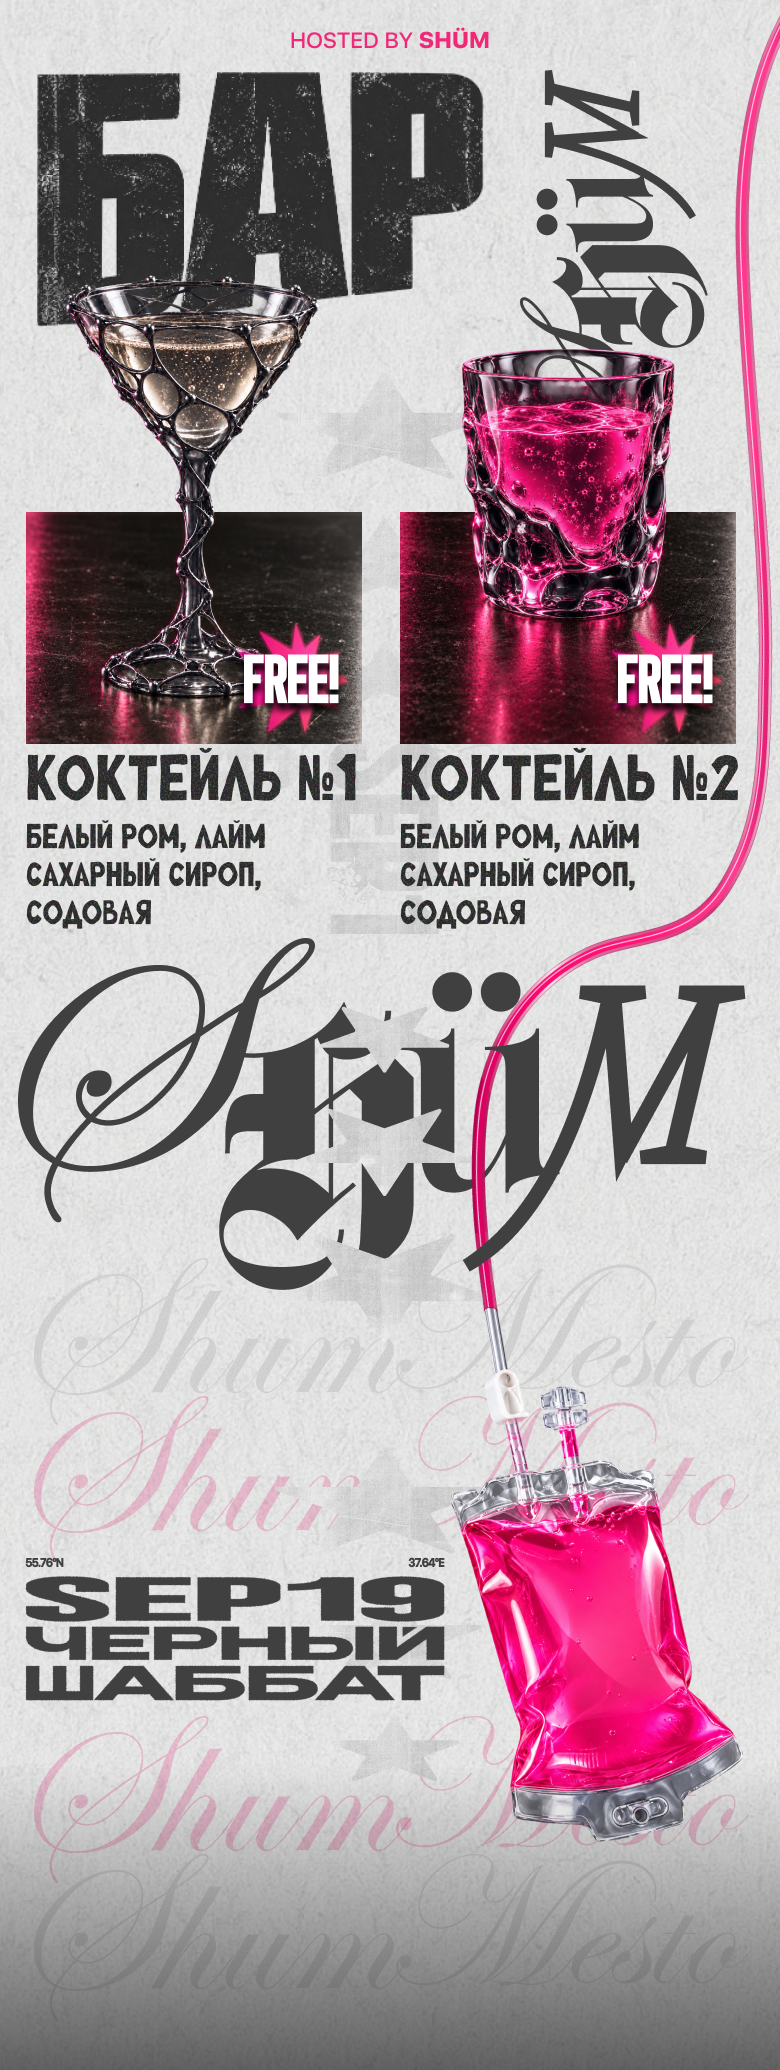
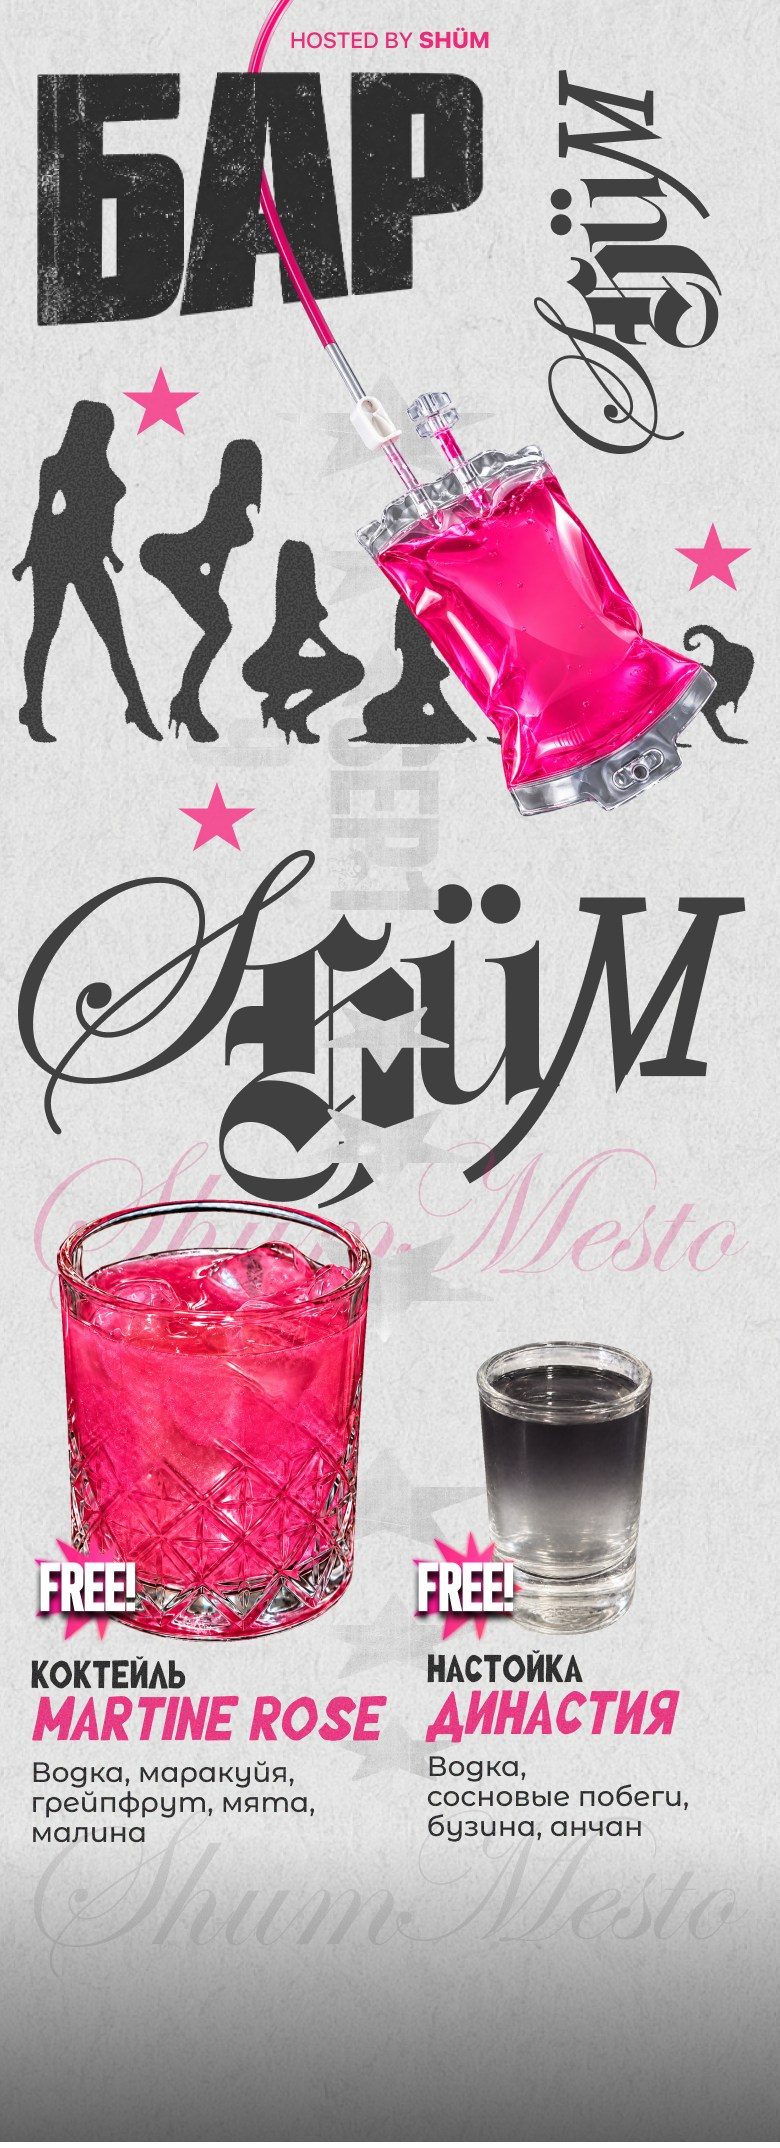
Обновить фон бара

diff --git a/site/index.html b/site/index.html
@@ -11,7 +11,7 @@
         const sources = {
           home: "backgrounds/home.png?v=a7f5261173",
           lineup: "backgrounds/lineup.png?v=7d078d4963",
-          bar: "backgrounds/bar.png?v=58fbe54321",
+          bar: "backgrounds/bar.png?v=693e6cc83f",
           rsvp: "backgrounds/rsvp.png?v=4099bfd00d",
           geo: "backgrounds/geo.png?v=af0cd09076",
         };
@@ -35,7 +35,7 @@
         <div class="backgrounds" aria-hidden="true">
           <img class="background" data-background="home" data-src="backgrounds/home.png?v=a7f5261173" width="780" height="1440" decoding="async" alt="" />
           <img class="background" data-background="lineup" data-src="backgrounds/lineup.png?v=7d078d4963" width="780" height="1440" decoding="async" alt="" />
-          <img class="background" data-background="bar" data-src="backgrounds/bar.png?v=58fbe54321" width="780" height="2070" decoding="async" alt="" />
+          <img class="background" data-background="bar" data-src="backgrounds/bar.png?v=693e6cc83f" width="780" height="2148" decoding="async" alt="" />
           <img class="background" data-background="rsvp" data-src="backgrounds/rsvp.png?v=4099bfd00d" width="780" height="1440" decoding="async" alt="" />
           <img class="background" data-background="geo" data-src="backgrounds/geo.png?v=af0cd09076" width="780" height="1440" decoding="async" alt="" />
         </div>
